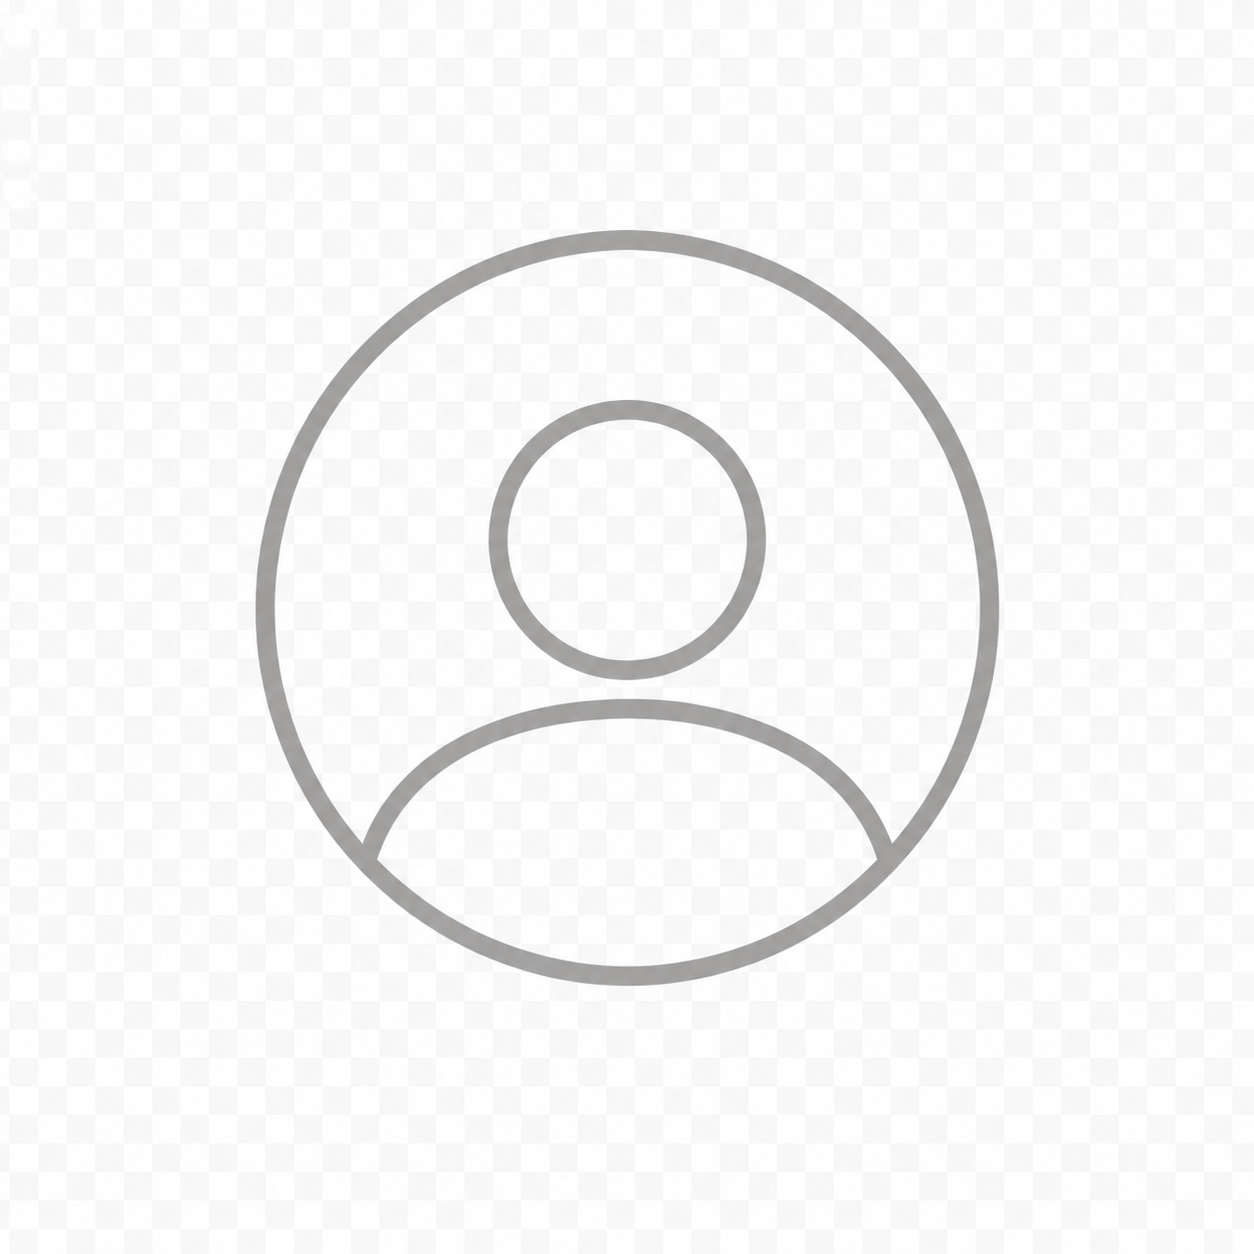
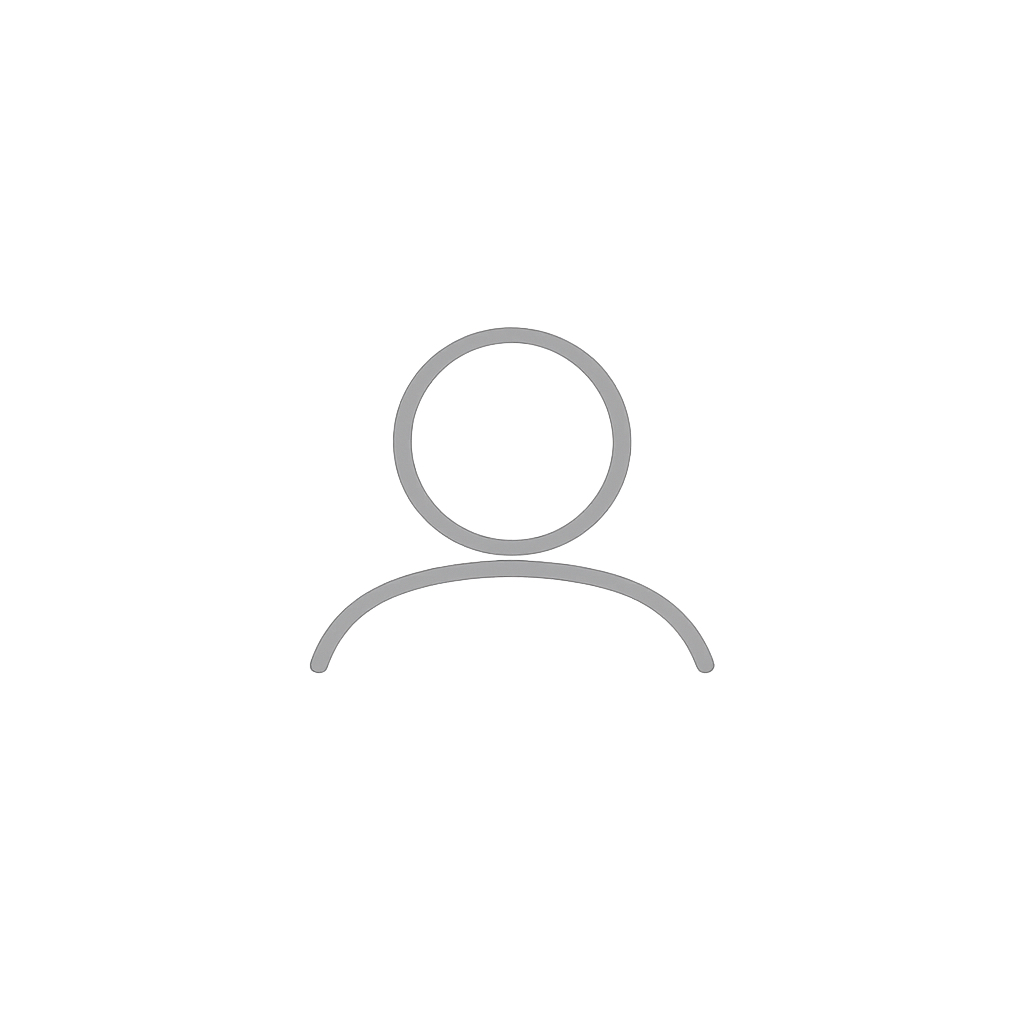
アカウント管理画面デフォルト画像修正（画像変更）

Changed region(s): [[0.1875, 0.1562, 0.8125, 0.8125], [0.5625, 0.3438, 0.5938, 0.375]]

diff --git a/my_app/static/css/style.css b/my_app/static/css/style.css
@@ -2277,6 +2277,12 @@ form select {
     opacity: 0.8;
 }
 
+.profile-default-icon img {
+    width: 140px;
+    height: 140px;
+    object-fit: contain;
+}
+
 .image-select-button {
     text-decoration: none;
     cursor: pointer;